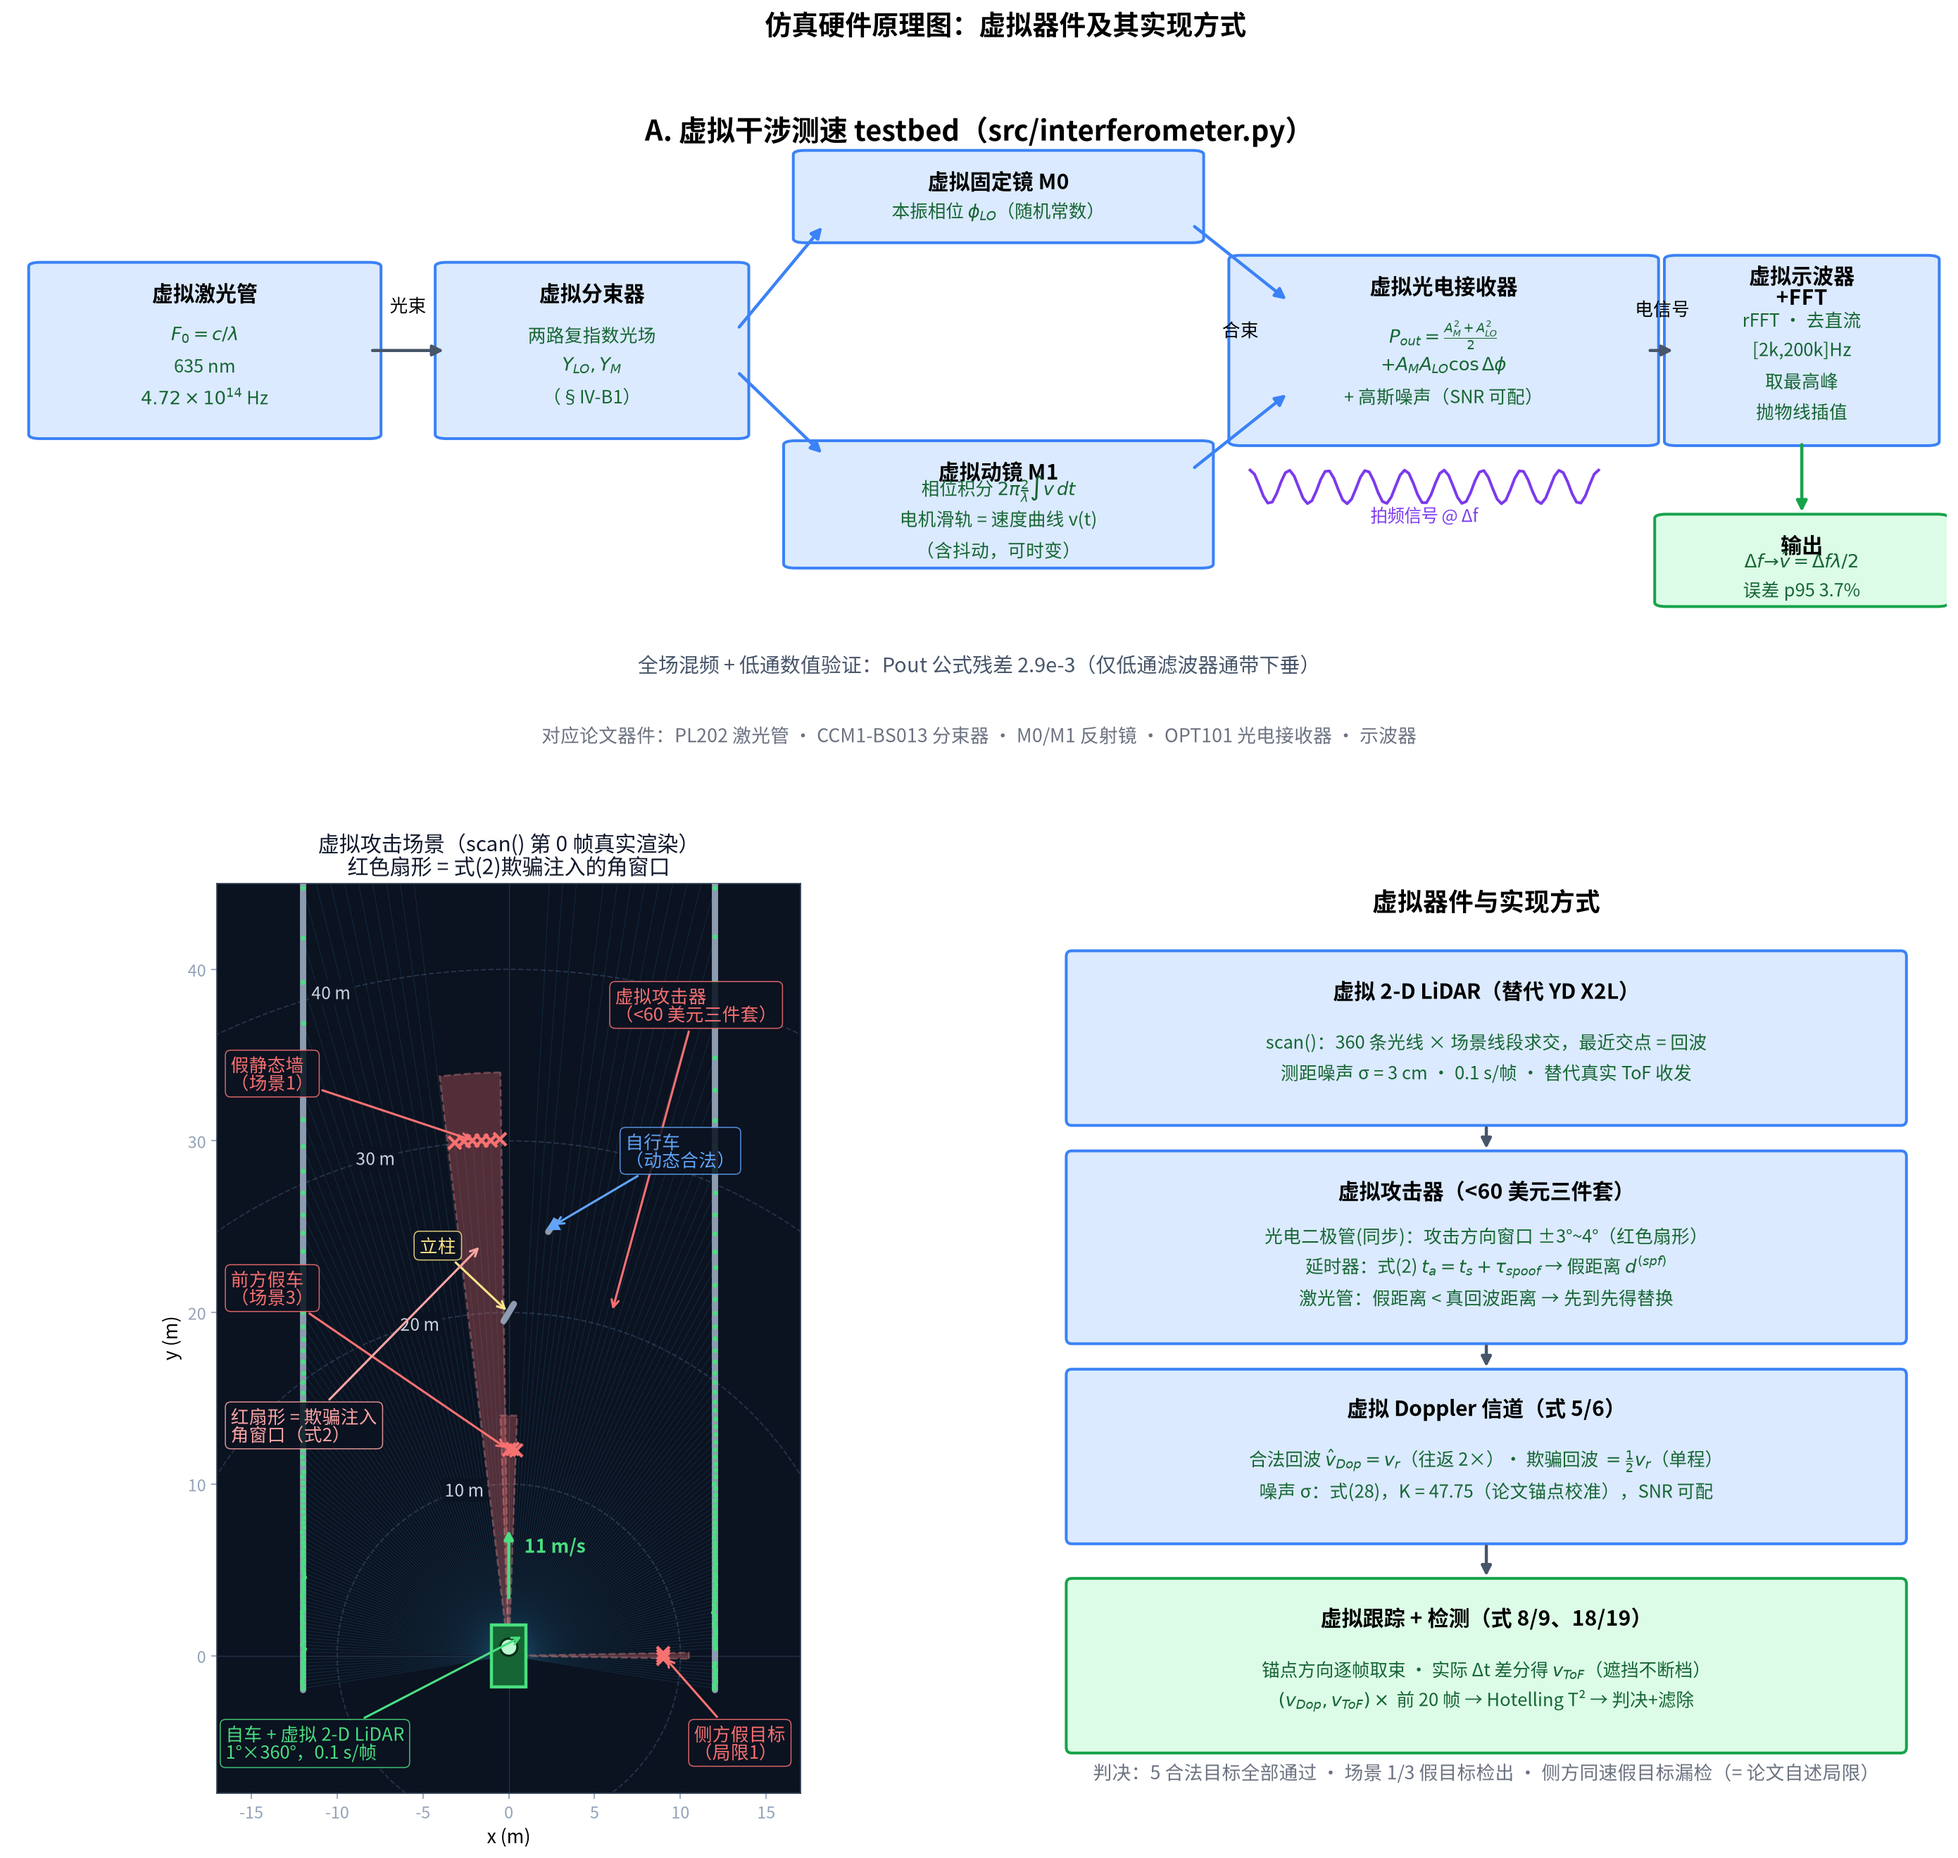
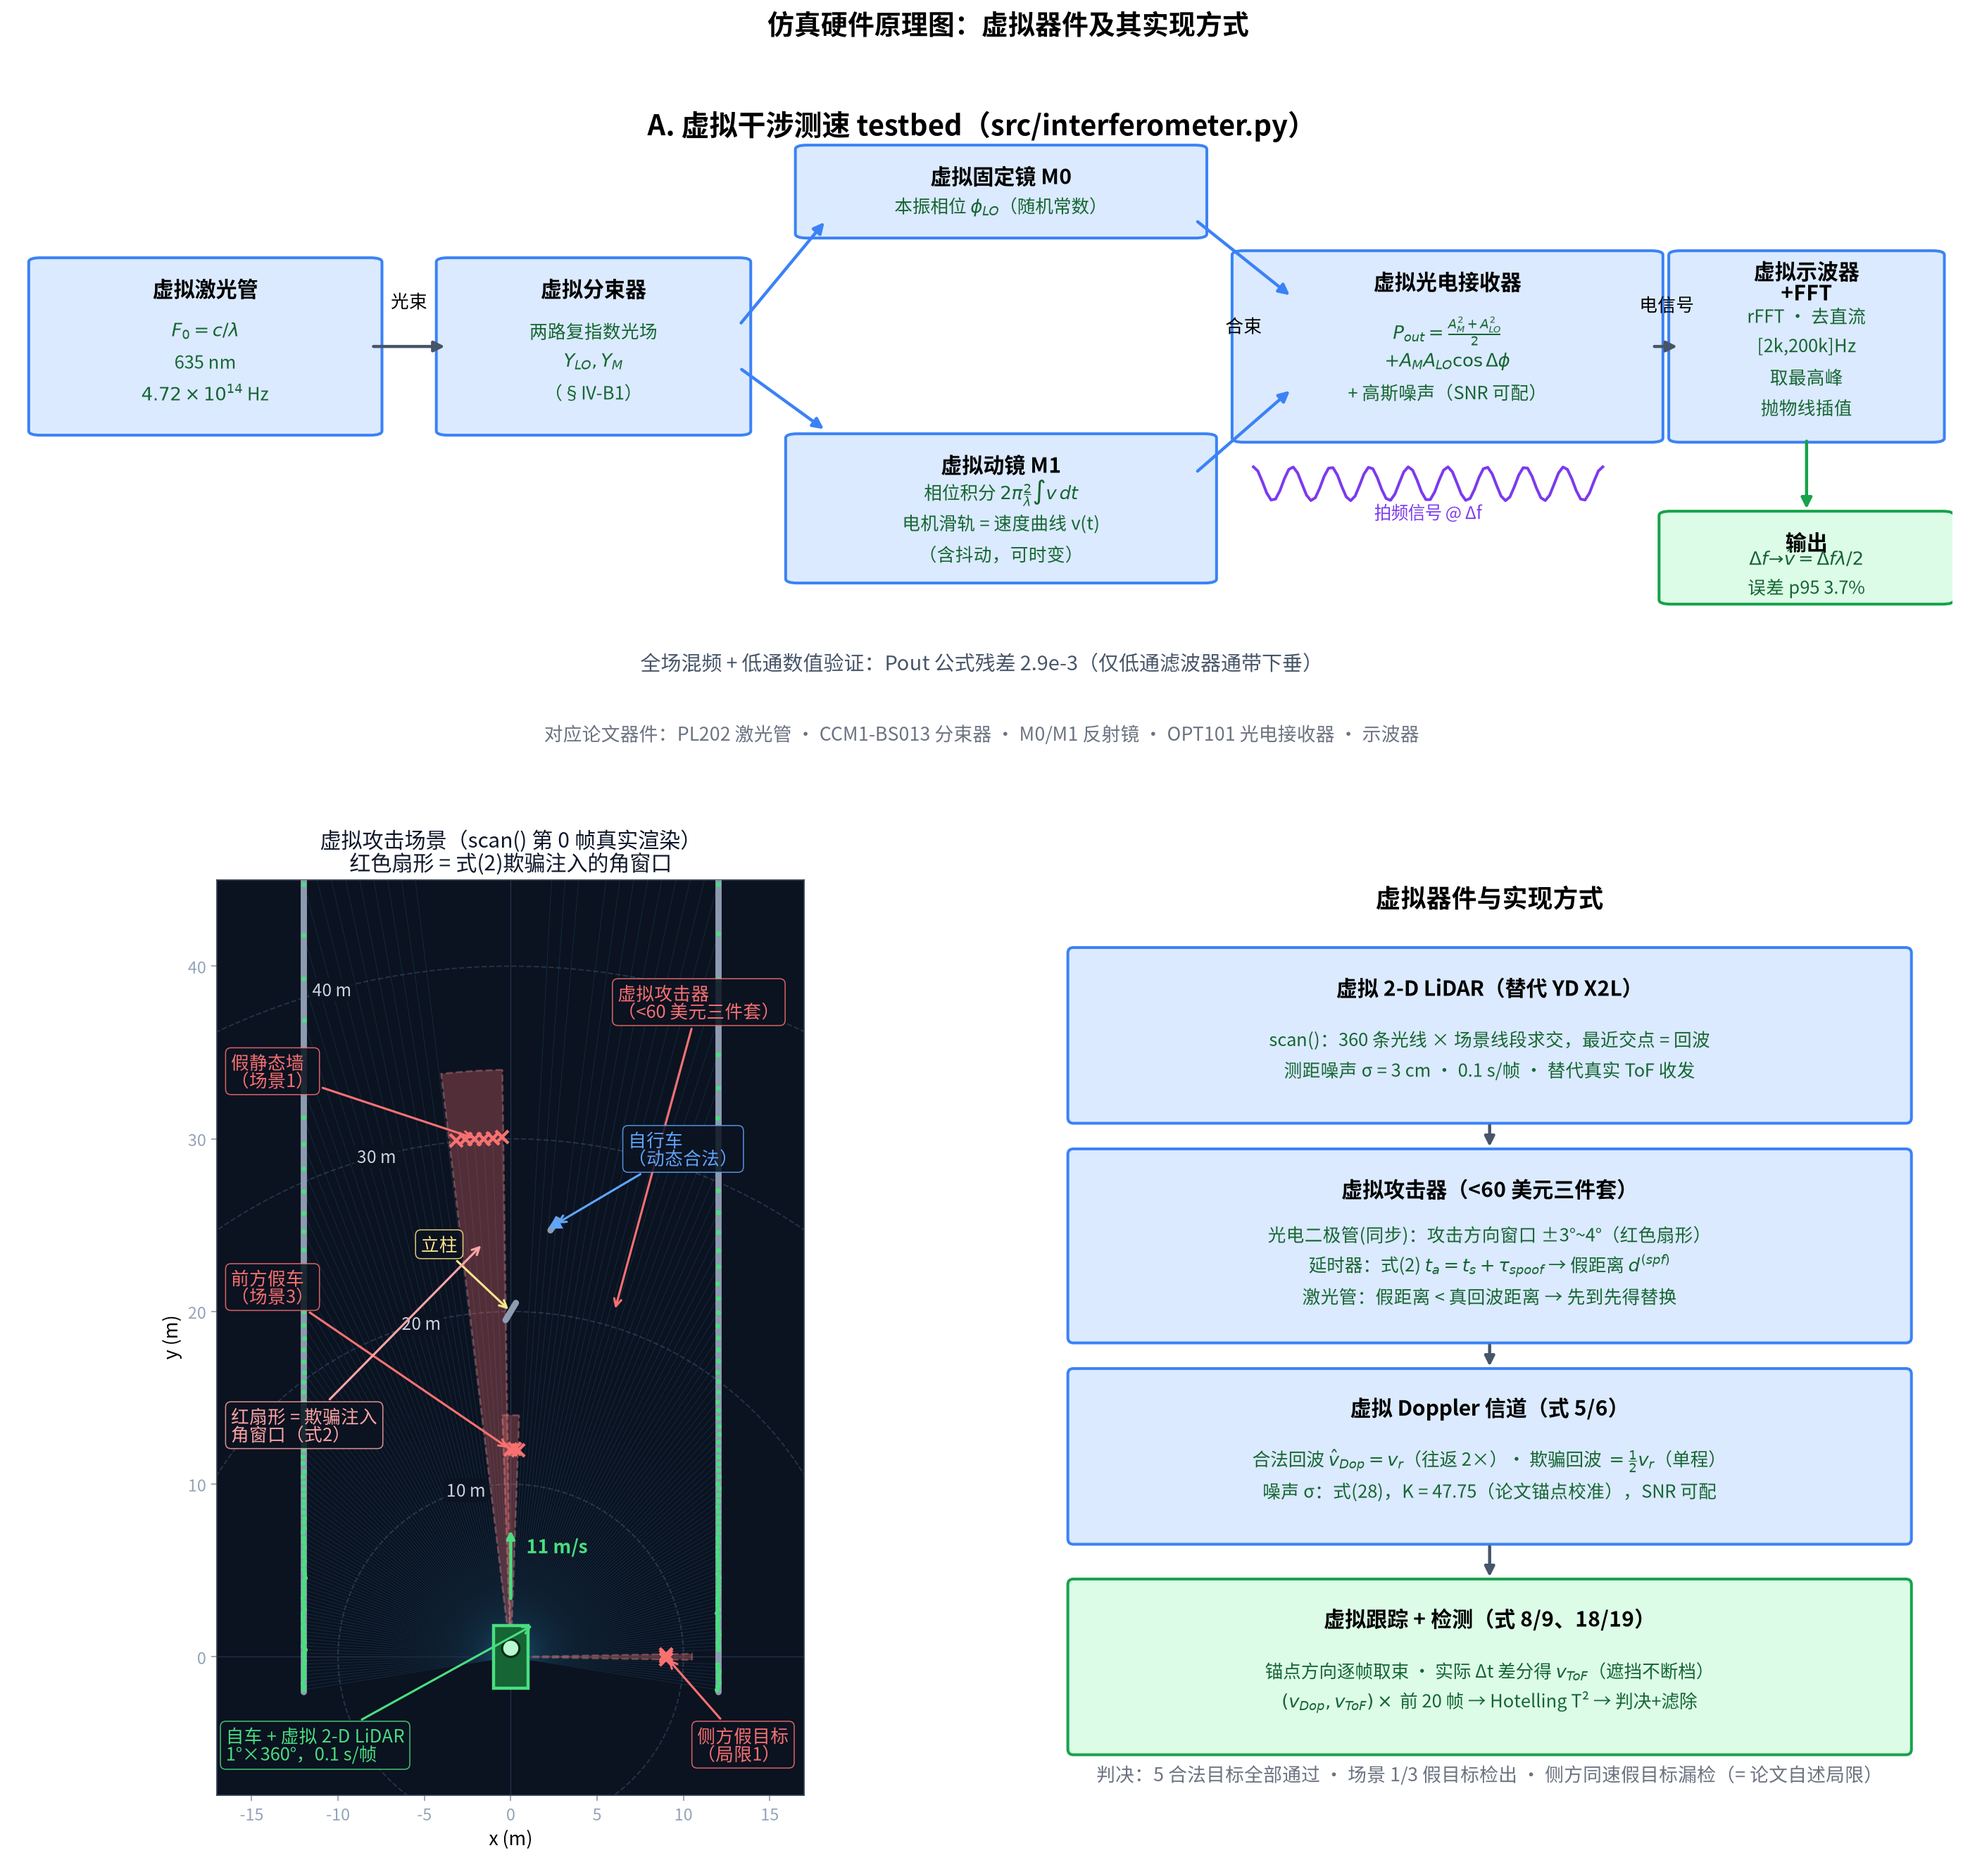
Fix M1 box text overlap and ego-note arrow
- virtual interferometer panel: canvas height 6.2->7.8in and M1 box
  taller (single-panel squeeze caused title/impl lines to collide)
- attack scene: ego annotation arrow now points at the car's outer
  edge instead of terminating inside the car body

diff --git a/src/hw_mapping.py b/src/hw_mapping.py
@@ -162,7 +162,7 @@ def _panel_virtual_interferometer(ax):
                 "两路复指数光场\n$Y_{LO},Y_M$\n（§IV-B1）")
     _device_box(ax, 51, 88, 20, 12, "虚拟固定镜 M0",
                 "本振相位 $\\phi_{LO}$（随机常数）")
-    _device_box(ax, 51, 44, 21, 17, "虚拟动镜 M1",
+    _device_box(ax, 51, 43, 21, 20, "虚拟动镜 M1",
                 "相位积分 $2\\pi\\frac{2}{\\lambda}\\int v\\,dt$\n"
                 "电机滑轨 = 速度曲线 v(t)\n（含抖动，可时变）")
     _device_box(ax, 74, 66, 21, 26, "虚拟光电接收器",
@@ -178,9 +178,9 @@ def _panel_virtual_interferometer(ax):
     _arrow(ax, 18.5, 66, 22.5, 66, lw=2)
     ax.text(20.5, 71.5, "光束", fontsize=11.5, ha="center")
     _arrow(ax, 37.5, 69, 42, 84, color=C_HW_EDGE, lw=2)
-    _arrow(ax, 37.5, 63, 42, 51, color=C_HW_EDGE, lw=2)
+    _arrow(ax, 37.5, 63, 42, 54, color=C_HW_EDGE, lw=2)
     _arrow(ax, 61, 84, 66, 73, color=C_HW_EDGE, lw=2)
-    _arrow(ax, 61, 49, 66, 60, color=C_HW_EDGE, lw=2)
+    _arrow(ax, 61, 48, 66, 60, color=C_HW_EDGE, lw=2)
     ax.text(63.5, 68, "合束", fontsize=11.5, ha="center")
     _arrow(ax, 84.5, 66, 86, 66, lw=2)
     ax.text(85.3, 71, "电信号", fontsize=11.5, ha="center")
@@ -299,7 +299,7 @@ def _draw_virtual_scene(ax_scene):
                           bbox=dict(boxstyle="round,pad=0.3", fc=SC_BG,
                                     ec=color, lw=0.7, alpha=0.85))
 
-    note("自车 + 虚拟 2-D LiDAR\n1°×360°，0.1 s/帧", (0.9, 1.2), (-16.5, -6),
+    note("自车 + 虚拟 2-D LiDAR\n1°×360°，0.1 s/帧", (1.4, 1.9), (-16.5, -6),
          "#4ade80")
     note("虚拟攻击器\n（<60 美元三件套）",
          tuple(attacks["ahead"]["attacker"]), (6.2, 37), "#f87171")
@@ -394,7 +394,7 @@ def plot_panels(figdir):
     fig.tight_layout()
     _save_fig(fig, f"{figdir}/fig_map_attack.png")
 
-    fig, ax = plt.subplots(figsize=(10.8, 6.2))
+    fig, ax = plt.subplots(figsize=(10.8, 7.8))
     _panel_virtual_interferometer(ax)
     fig.tight_layout()
     _save_fig(fig, f"{figdir}/fig_virtual_interferometer.png")
